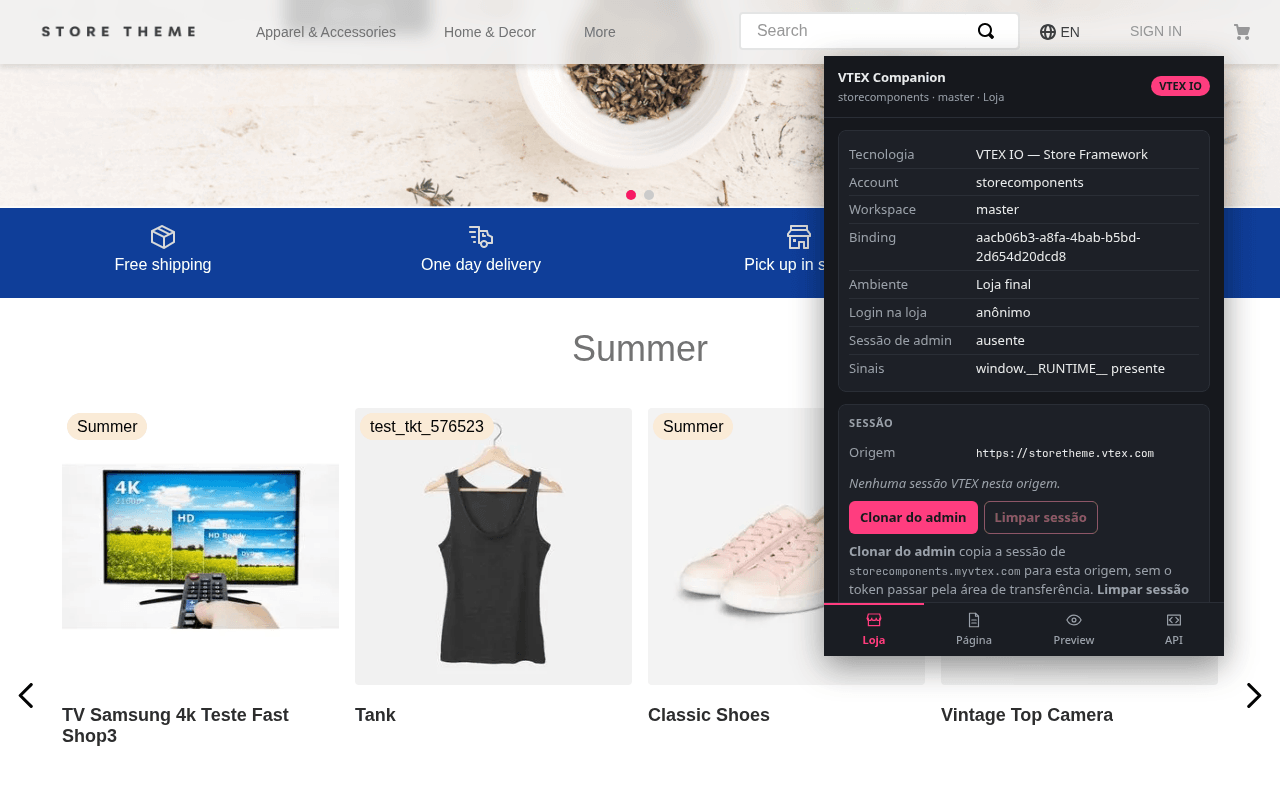
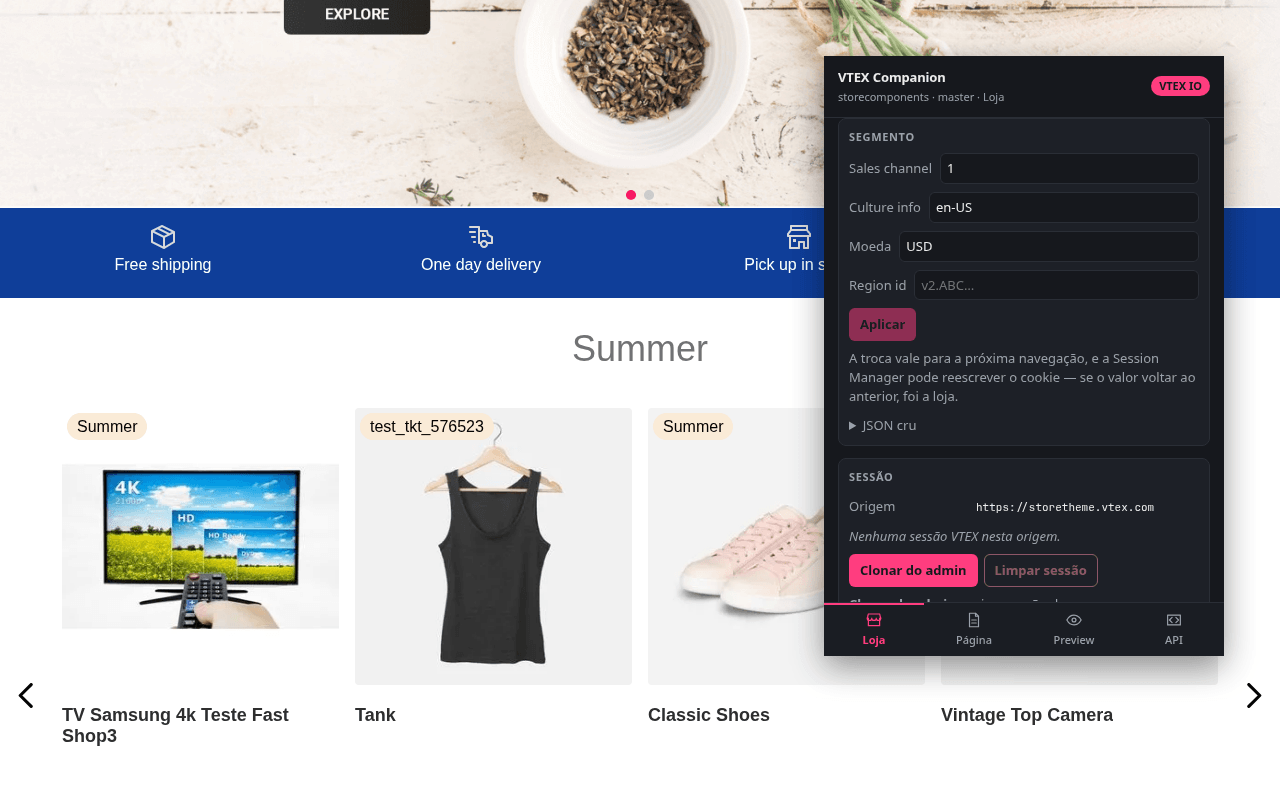
docs(screenshots): aim shot 5 at the segment, and say so
The Store tab grew two sections above Session, so the shot that used to frame
Session was showing the oldest part of a tab whose news is elsewhere. It now
scrolls the Segment section to the top, with Session below it in what is left of
the fold.

scrollIntoView with block start replaces scrollIntoViewIfNeeded, which scrolls
the minimum and left the section pinned against the bottom edge, cut in half —
exactly what this file tells the reader not to ship. Aiming through the heading
rather than a section filtered by text also stopped the match landing on the
wrong section.

diff --git a/docs/publicacao.md b/docs/publicacao.md
@@ -409,7 +409,7 @@ enviada, e a primeira é a que quase todo mundo vê.
 2. Painel do DevTools — requisição e resposta formatada lado a lado
 3. Admin do CMS — botão Localhost e o Localhost URL no painel de dev mode
 4. Aba Página — achados de SEO e scripts de terceiros
-5. Aba Loja — tecnologia, account, workspace e o bloco de sessão
+5. Aba Loja — tecnologia, account, workspace, o segmento editável e a sessão
 
 O critério da ordem: começa pelo que qualquer pessoa que trabalha com VTEX
 reconhece de imediato, depois a ferramenta com mais espaço de tela, depois o
